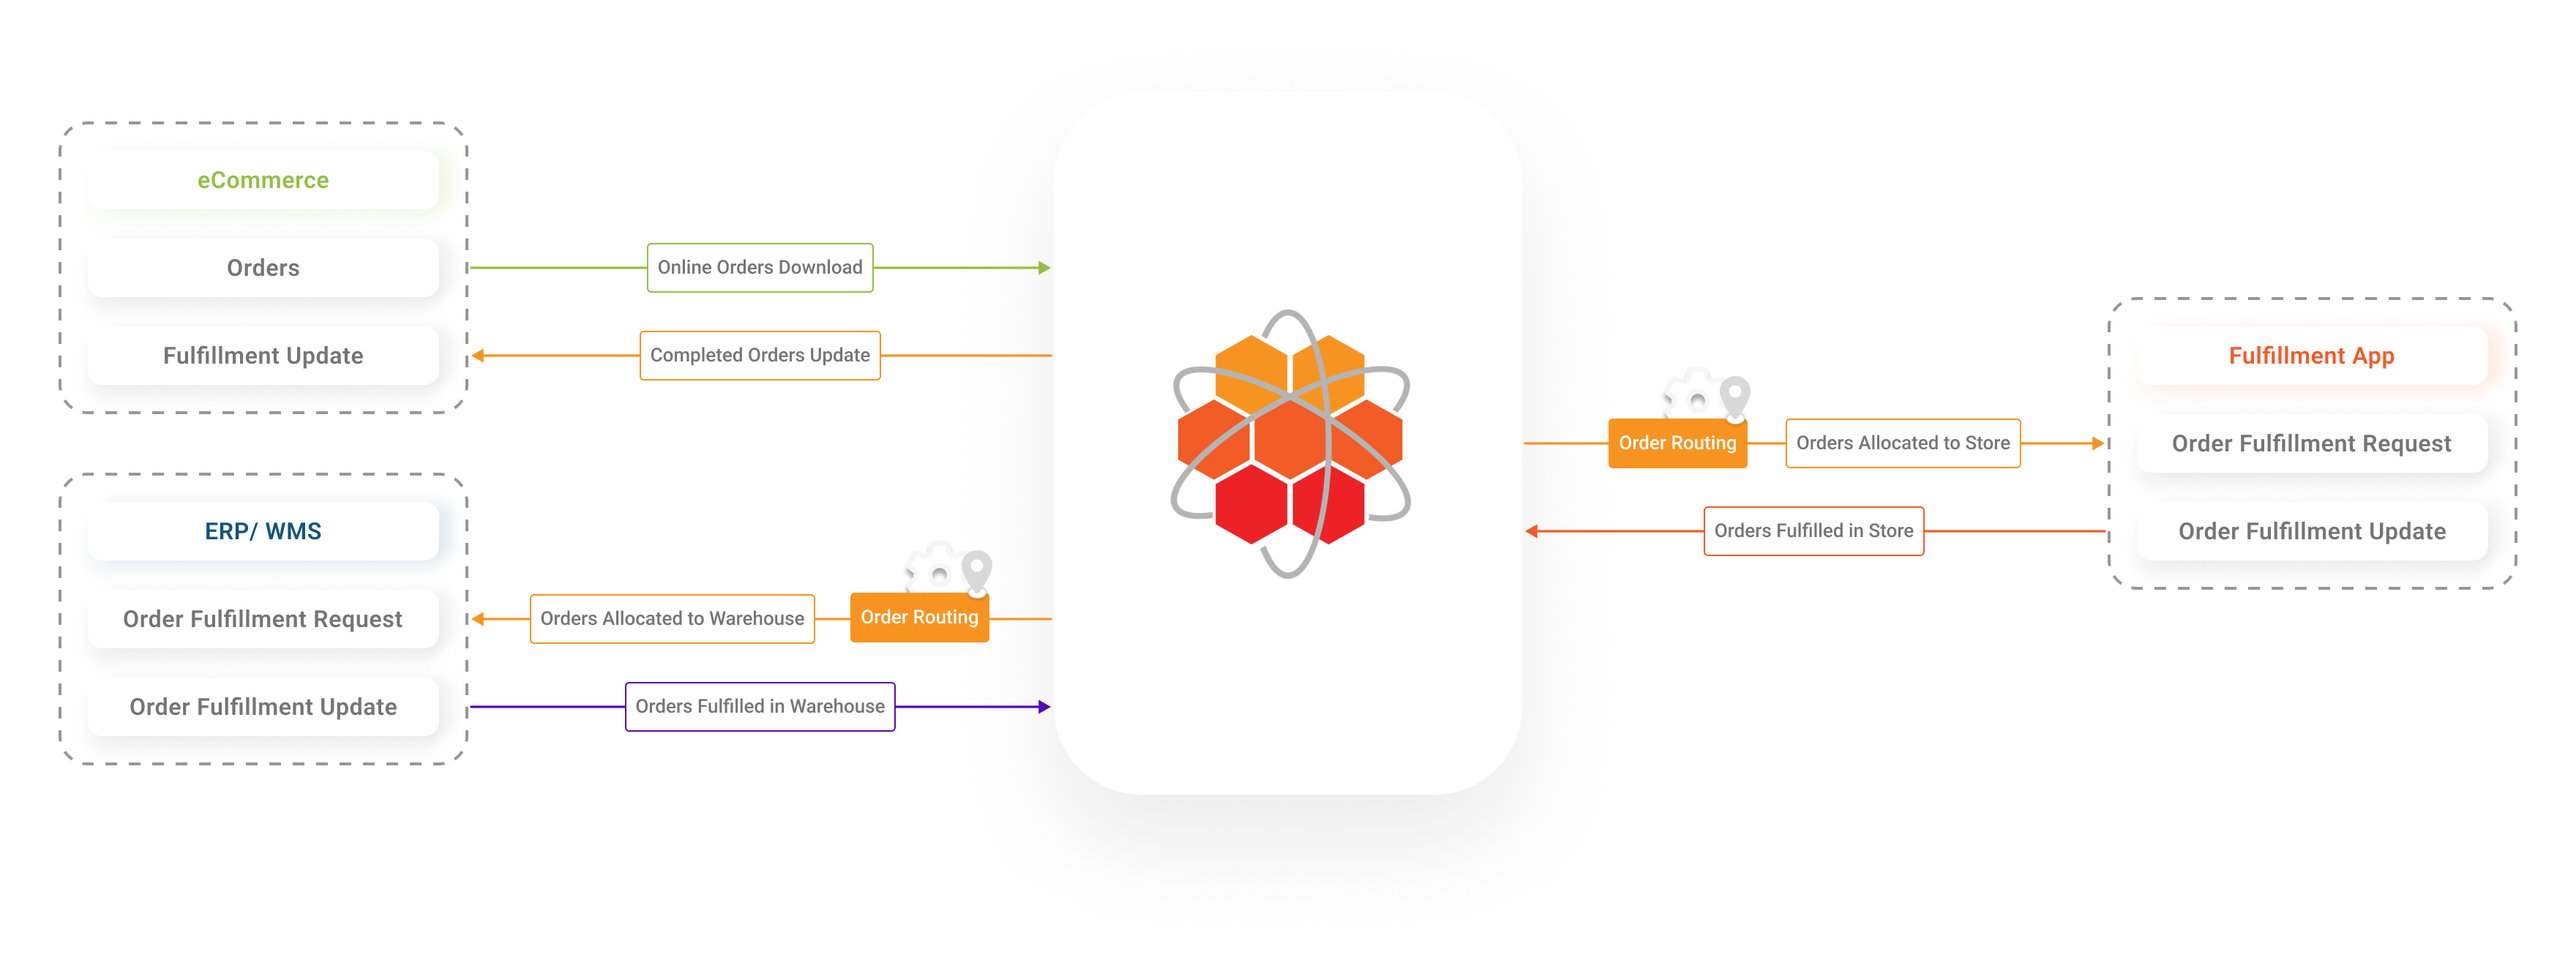
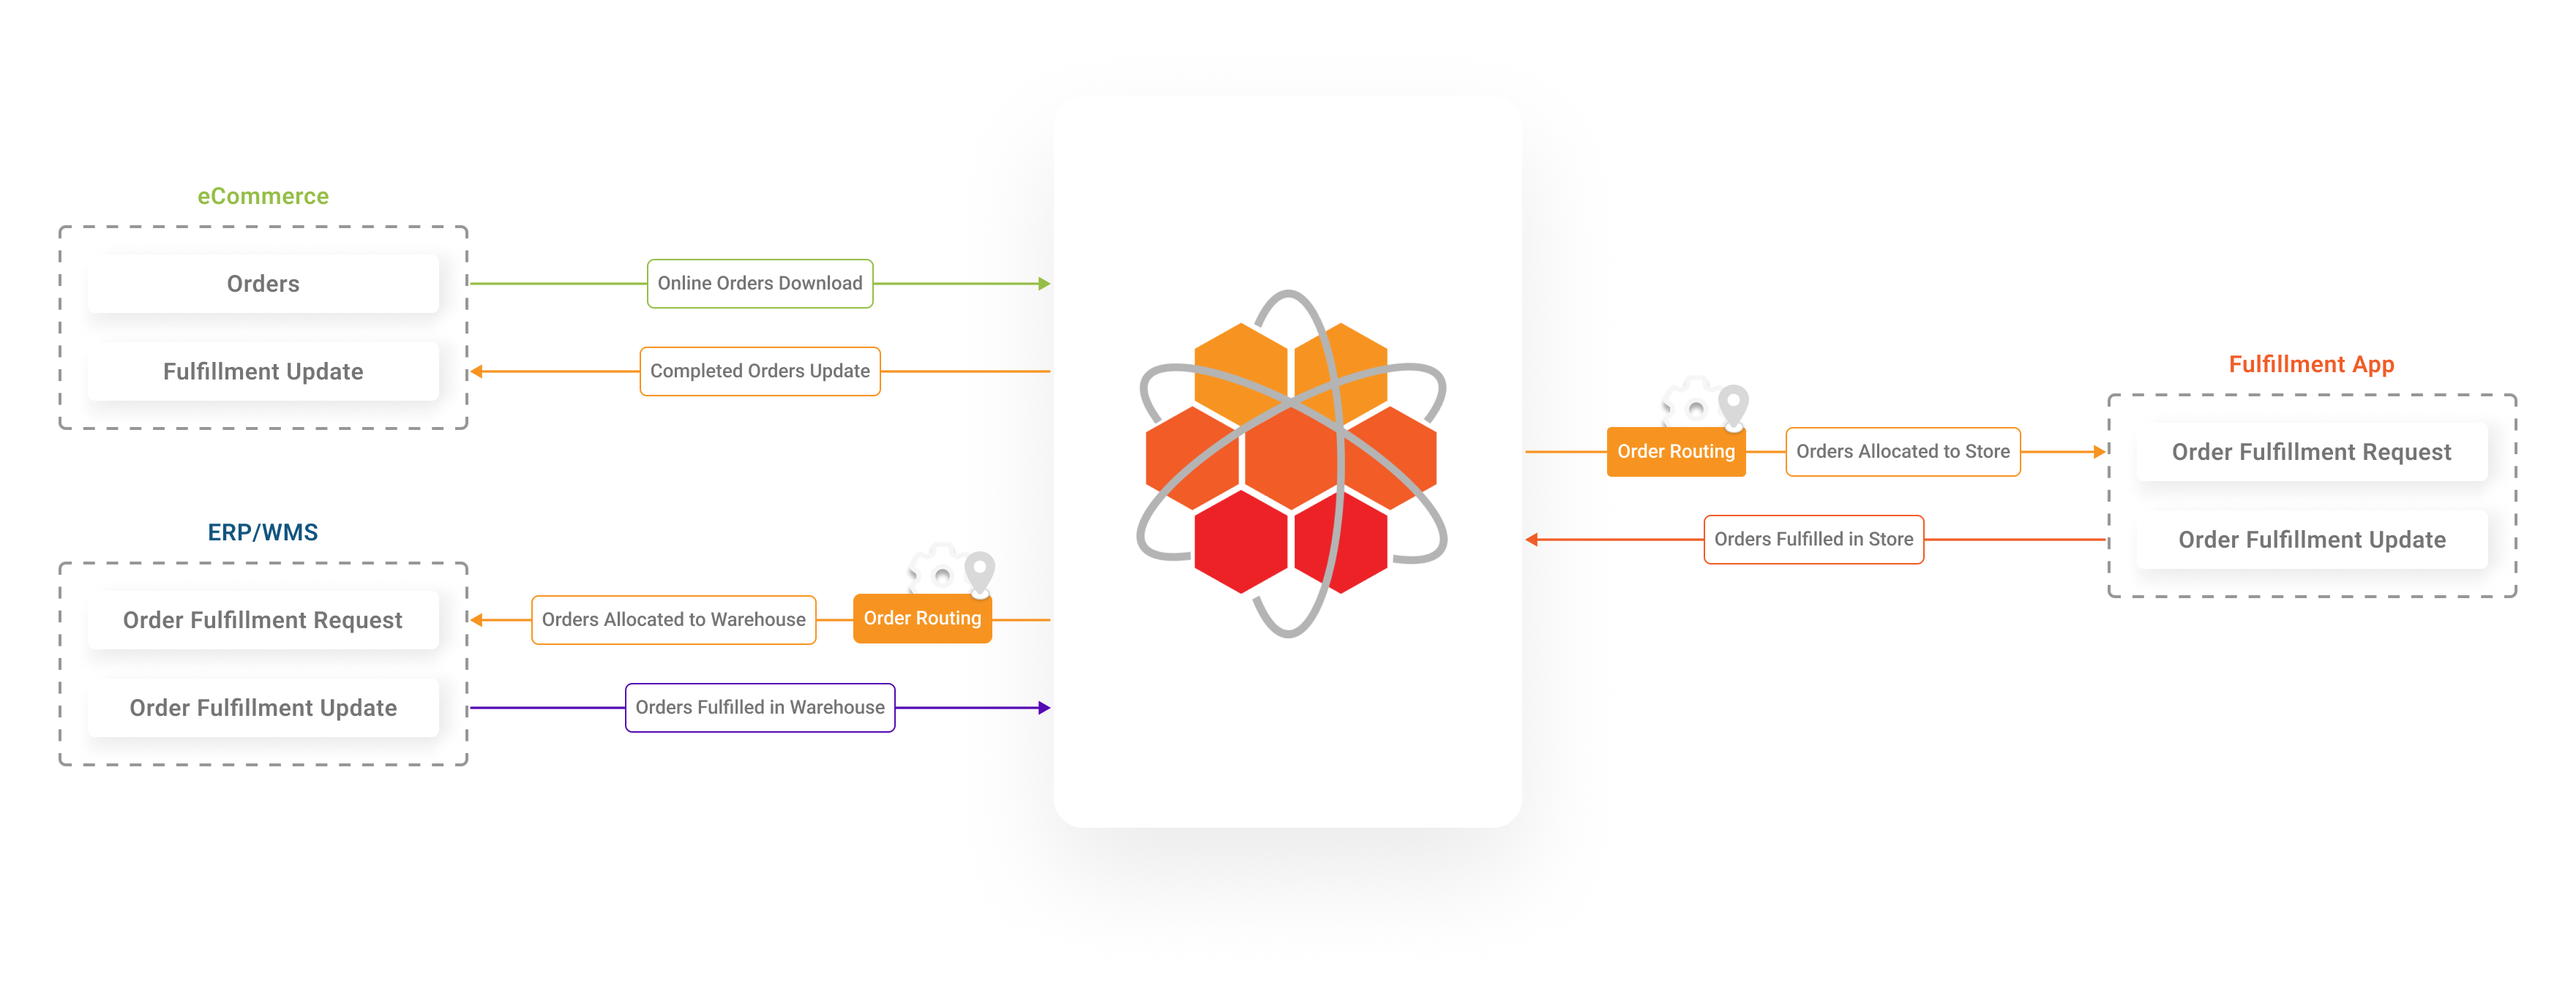
GITBOOK-65: Updated Images

diff --git a/documents/learn-oms/business-processes/orderfulfillmentbp.md b/documents/learn-oms/business-processes/orderfulfillmentbp.md
@@ -7,7 +7,7 @@ description: >-
 
 # Order Fulfillment
 
-<figure><img src="../.gitbook/assets/HotWax Fulfillment (1).png" alt=""><figcaption><p>Order allocation and fulfillment </p></figcaption></figure>
+<figure><img src="../.gitbook/assets/Order Fulfillment.png" alt=""><figcaption><p>Order allocation and fulfillment </p></figcaption></figure>
 
 ## How Order Fulfillment Works
 
